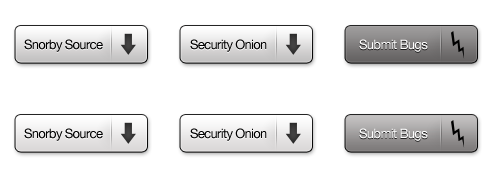
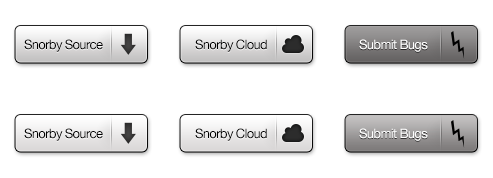
remove security onion

diff --git a/public/stylesheets/snorbyorg.css b/public/stylesheets/snorbyorg.css
@@ -777,12 +777,12 @@ pre.code{
 	background-position: -3px -87px;
 }
 
-#info-box .inside #downloads button#security-onion{
+#info-box .inside #downloads button#snorby-cloud-button{
 	background-position: -166px 2px;
 	float: left;
 }
 
-#info-box .inside #downloads button#security-onion span{
+#info-box .inside #downloads button#snorby-cloud-button span{
 	background-position: -166px -87px;
 	float: left;
 }

diff --git a/lib/snorbyorg/versions.rb b/lib/snorbyorg/versions.rb
@@ -1,9 +1,9 @@
 module Snorbyorg
-  
+
   VERSION='0.1.0'
-  
+
   module Versions
-   
+
     def self.data
       @data ||= {
         :md5 => '168b1125309df05fadf533564124264b',
@@ -18,21 +18,11 @@ module Snorbyorg
     def self.snorby
       '2.5.3'
     end
-    
-    def self.security_onion
-      ''
-    end
-    
+
     def self.snorby_download
       "https://github.com/Snorby/snorby/zipball/v#{Snorbyorg::Versions.snorby}"
     end
-    
-    def self.security_onion_download
-      # "http://sourceforge.net/projects/security-onion/files/security-onion-live-#{Snorbyorg::Versions.security_onion}.iso/download"
-      # "http://sourceforge.net/projects/security-onion/files/latest/download?source=files"
-      "http://code.google.com/p/security-onion/wiki/Installation"
-    end
-    
+
   end
-  
+
 end

diff --git a/config/routes.rb b/config/routes.rb
@@ -6,7 +6,7 @@ Snorbyorg::Application.routes.draw do
   match "/version", :controller => 'Pages', :action => 'version'
   match "/redirect", :controller => 'Pages', :action => 'redirect'
   match "/iphone", :controller => 'Pages', :action => 'iphone', :as => 'iphone'
-  match "/redirect-security-onion", :controller => 'Pages', :action => 'redirect_security_onion'
+  match "/redirect-snorby-cloud", :controller => 'Pages', :action => 'redirect_snorby_cloud'
 
   root :to => "pages#home"
 

diff --git a/app/controllers/pages_controller.rb b/app/controllers/pages_controller.rb
@@ -24,8 +24,8 @@ class PagesController < ApplicationController
     redirect_to "https://github.com/Snorby/snorby/zipball/v#{Snorbyorg::Versions.snorby}"
   end
 
-  def redirect_security_onion
-    redirect_to "http://code.google.com/p/security-onion/wiki/Installation"
+  def redirect_snorby_cloud
+    redirect_to "https://cloud.snorby.org"
   end
 
 end
